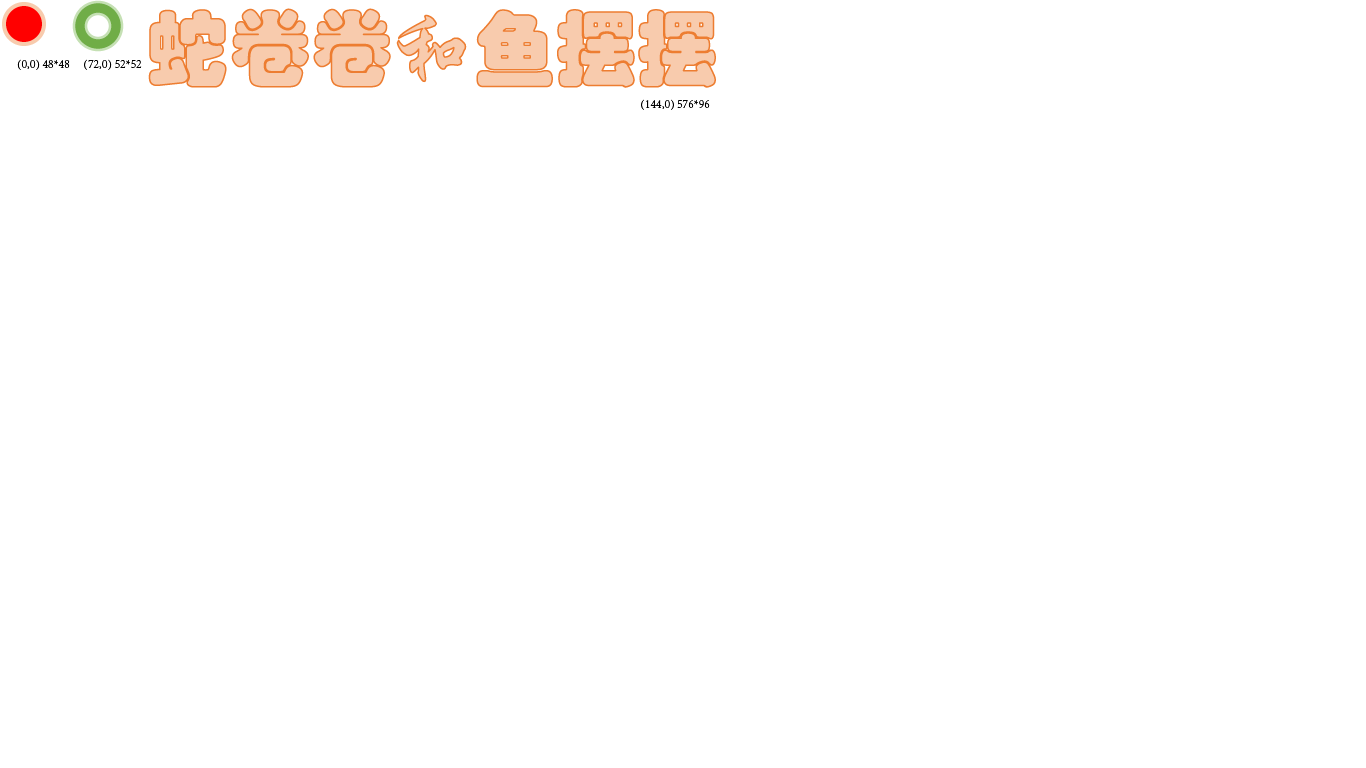
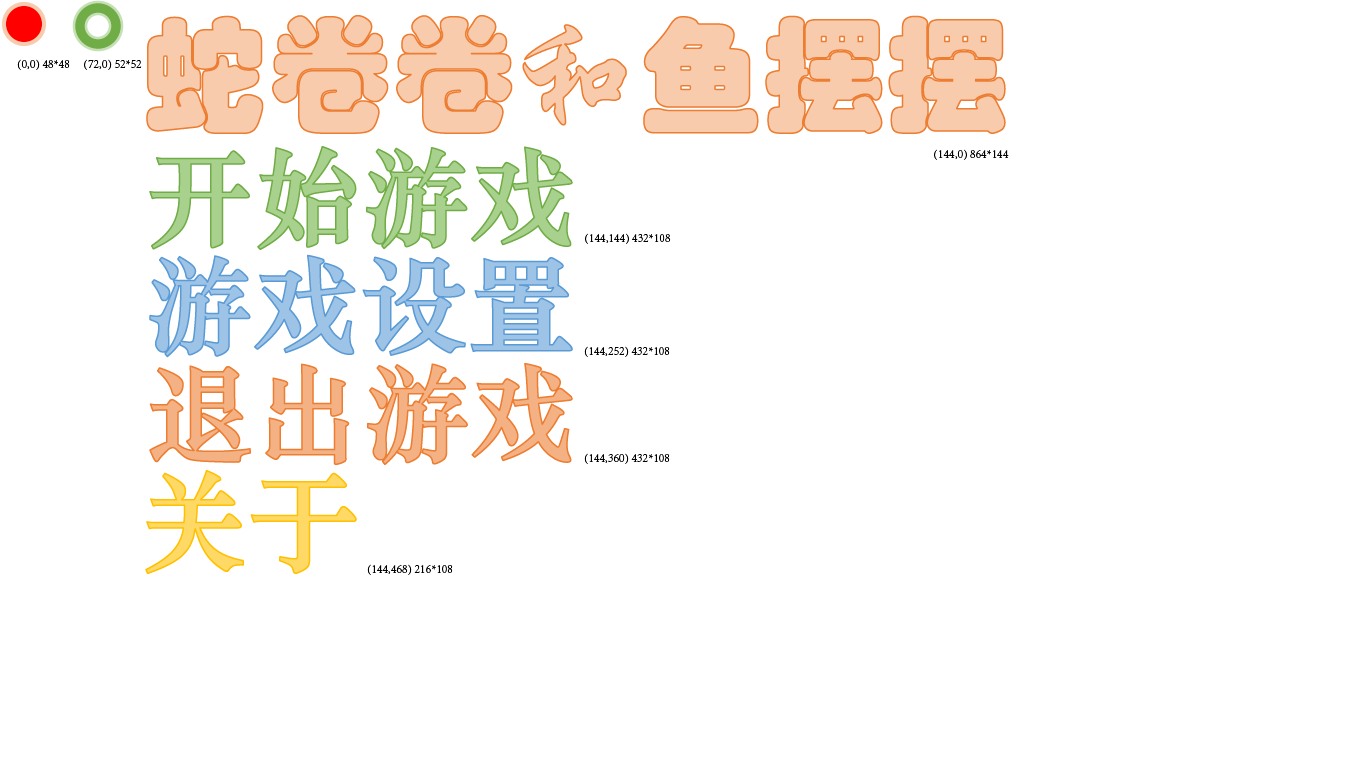
Create assets.json and use this json file to import textures

Changed region(s): [[0.0922, 0.0, 0.7379, 0.75], [0.2767, 0.7188, 0.3382, 0.75]]

diff --git a/src/game/scenes/StartScene.hpp b/src/game/scenes/StartScene.hpp
@@ -15,6 +15,10 @@ private:
     std::shared_ptr<Scene> aboutScene;
 
     sf::Sprite title;
+    sf::Sprite startButton;
+    sf::Sprite settingsButton;
+    sf::Sprite exitButton;
+    sf::Sprite aboutButton;
     
     
 public:
@@ -24,7 +28,23 @@ public:
         auto& assetManager = AssetManager::getInstance();
         title.setTexture(assetManager.texture.get("gameTitle"), true);
         title.setOrigin(title.getGlobalBounds().getSize() * 0.5f);
-        title.setPosition(window.getSize().x * 0.5f, window.getSize().y * 0.3f);
+        title.setPosition(window.getSize().x * 0.5f, window.getSize().y * 0.2f);
+
+        startButton.setTexture(assetManager.texture.get("startGame"), true);
+        startButton.setOrigin(startButton.getGlobalBounds().getSize() * 0.5f);
+        startButton.setPosition(window.getSize().x * 0.5f, window.getSize().y * 0.4f);
+
+        settingsButton.setTexture(assetManager.texture.get("gameSettings"), true);
+        settingsButton.setOrigin(settingsButton.getGlobalBounds().getSize() * 0.5f);
+        settingsButton.setPosition(window.getSize().x * 0.5f, window.getSize().y * 0.55f);
+
+        exitButton.setTexture(assetManager.texture.get("exitGame"), true);
+        exitButton.setOrigin(exitButton.getGlobalBounds().getSize() * 0.5f);
+        exitButton.setPosition(window.getSize().x * 0.5f, window.getSize().y * 0.70f);
+
+        aboutButton.setTexture(assetManager.texture.get("aboutPage"), true);
+        aboutButton.setOrigin(aboutButton.getGlobalBounds().getSize() * 0.5f);
+        aboutButton.setPosition(window.getSize().x * 0.5f, window.getSize().y * 0.85f);
     }
     void bindGameScene(std::shared_ptr<Scene> scene);
     void bindSettingsScene(std::shared_ptr<Scene> scene);

diff --git a/src/main.cpp b/src/main.cpp
@@ -1,8 +1,10 @@
 #include<SFML/Graphics.hpp>
 #include<iostream>
+#include<fstream>
 #include<vector>
 #include<random>
 #include<cmath>
+#include<nlohmann/json.hpp>
 
 #include "game/SceneManager.hpp"
 #include "game/scenes/RenderedGameRunner.hpp"
@@ -15,12 +17,30 @@ void load_assets()
 {
     auto& assetManager = AssetManager::getInstance();
 
-    sf::Image images;
-    images.loadFromFile("./assets/images/images.png");
+    std::ifstream assetsList("./assets/assets.json");
+    auto data = nlohmann::json::parse(assetsList);
 
-    assetManager.texture.loadFromImage("snakeBody", images, sf::IntRect(0, 0, 48, 48));
-    assetManager.texture.loadFromImage("greenCircle", images, sf::IntRect(72, 0, 52, 52));
-    assetManager.texture.loadFromImage("gameTitle", images, sf::IntRect(144, 0, 576, 96));
+    // import textures
+    for(auto &image : data["textures"].items())
+    {
+        std::string imagePath = image.key();
+        auto& imageData = image.value();
+
+        sf::Image imageFile;
+        imageFile.loadFromFile("./assets/" + imagePath);
+
+        for(auto &texture : imageData.items()) {
+            std::string textureName = texture.key();
+            auto &textureDetails = texture.value();
+
+            int x = textureDetails["x"];
+            int y = textureDetails["y"];
+            int width = textureDetails["width"];
+            int height = textureDetails["height"];
+
+            assetManager.texture.loadFromImage(textureName, imageFile, sf::IntRect(x, y, width, height));
+        }
+    }
 }
 
 int main()

diff --git a/src/game/scenes/StartScene.cpp b/src/game/scenes/StartScene.cpp
@@ -18,6 +18,10 @@ void StartScene::bindAboutScene(std::shared_ptr<Scene> scene)
 void StartScene::render()
 {
     window.draw(title);
+    window.draw(startButton);
+    window.draw(settingsButton);
+    window.draw(exitButton);
+    window.draw(aboutButton);
 }
 
 void StartScene::step()
@@ -26,4 +30,5 @@ void StartScene::step()
 
 void StartScene::handleUserInput()
 {
+    
 }

diff --git a/src/entities/Fish.cpp b/src/entities/Fish.cpp
@@ -2,7 +2,7 @@
 
 #include "SFML/Graphics.hpp"
 #include "utilities/config.hpp"
-#include "utilities/utils.hpp"
+#include "..\utilities\mathUtils.hpp"
 
 Fish::Fish(sf::Vector2f coord, std::unique_ptr<FishStrategy> stra) : strategy(std::move(stra))
 {

diff --git a/src/game/GameRunner.cpp b/src/game/GameRunner.cpp
@@ -1,7 +1,7 @@
 #include <memory>
 
 #include "GameRunner.hpp"
-#include "utilities/utils.hpp"
+#include "..\utilities\mathUtils.hpp"
 #include "utilities/config.hpp"
 
 Fish* GameRunner::createFish(sf::Vector2f pos, CONST::FISH_STRATEGY stra)

diff --git a/src/entities/GreenCircle.cpp b/src/entities/GreenCircle.cpp
@@ -2,7 +2,7 @@
 
 #include "SFML/Graphics.hpp"
 #include "utilities/config.hpp"
-#include "utilities/utils.hpp"
+#include "..\utilities\mathUtils.hpp"
 #include "utilities/AssetManager.hpp"
 
 GreenCircle::GreenCircle(sf::Vector2f position)

diff --git a/src/entities/Snake.cpp b/src/entities/Snake.cpp
@@ -2,7 +2,7 @@
 
 #include "SFML/Graphics.hpp"
 #include "utilities/config.hpp"
-#include "utilities/utils.hpp"
+#include "..\utilities\mathUtils.hpp"
 #include "utilities/AssetManager.hpp"
 
 void Snake::extract_segments()

diff --git a/src/entities/CircularEater.cpp b/src/entities/CircularEater.cpp
@@ -2,7 +2,7 @@
 
 #include "SFML/Graphics.hpp"
 #include "utilities/config.hpp"
-#include "utilities/utils.hpp"
+#include "..\utilities\mathUtils.hpp"
 
 CircularEater::CircularEater()
 {

diff --git a/src/utilities/properties.hpp b/src/utilities/properties.hpp
@@ -1,7 +1,7 @@
 #pragma once
 
 #include "config.hpp"
-#include "utils.hpp"
+#include "mathUtils.hpp"
 
 /// @brief Property of an object for having a center
 class HasCenter

diff --git a/src/entities/strategies/strategies.hpp b/src/entities/strategies/strategies.hpp
@@ -2,7 +2,7 @@
 
 #include<array>
 
-#include "utilities/utils.hpp"
+#include "..\..\utilities\mathUtils.hpp"
 #include "utilities/config.hpp"
 
 class SensoryState

diff --git a/src/utilities/mathUtils.cpp b/src/utilities/mathUtils.cpp
@@ -1,7 +1,7 @@
 #include<cfloat>
 #include<cmath>
 
-#include "utils.hpp"
+#include "mathUtils.hpp"
 #include "config.hpp"
 
 std::mt19937 gen;
